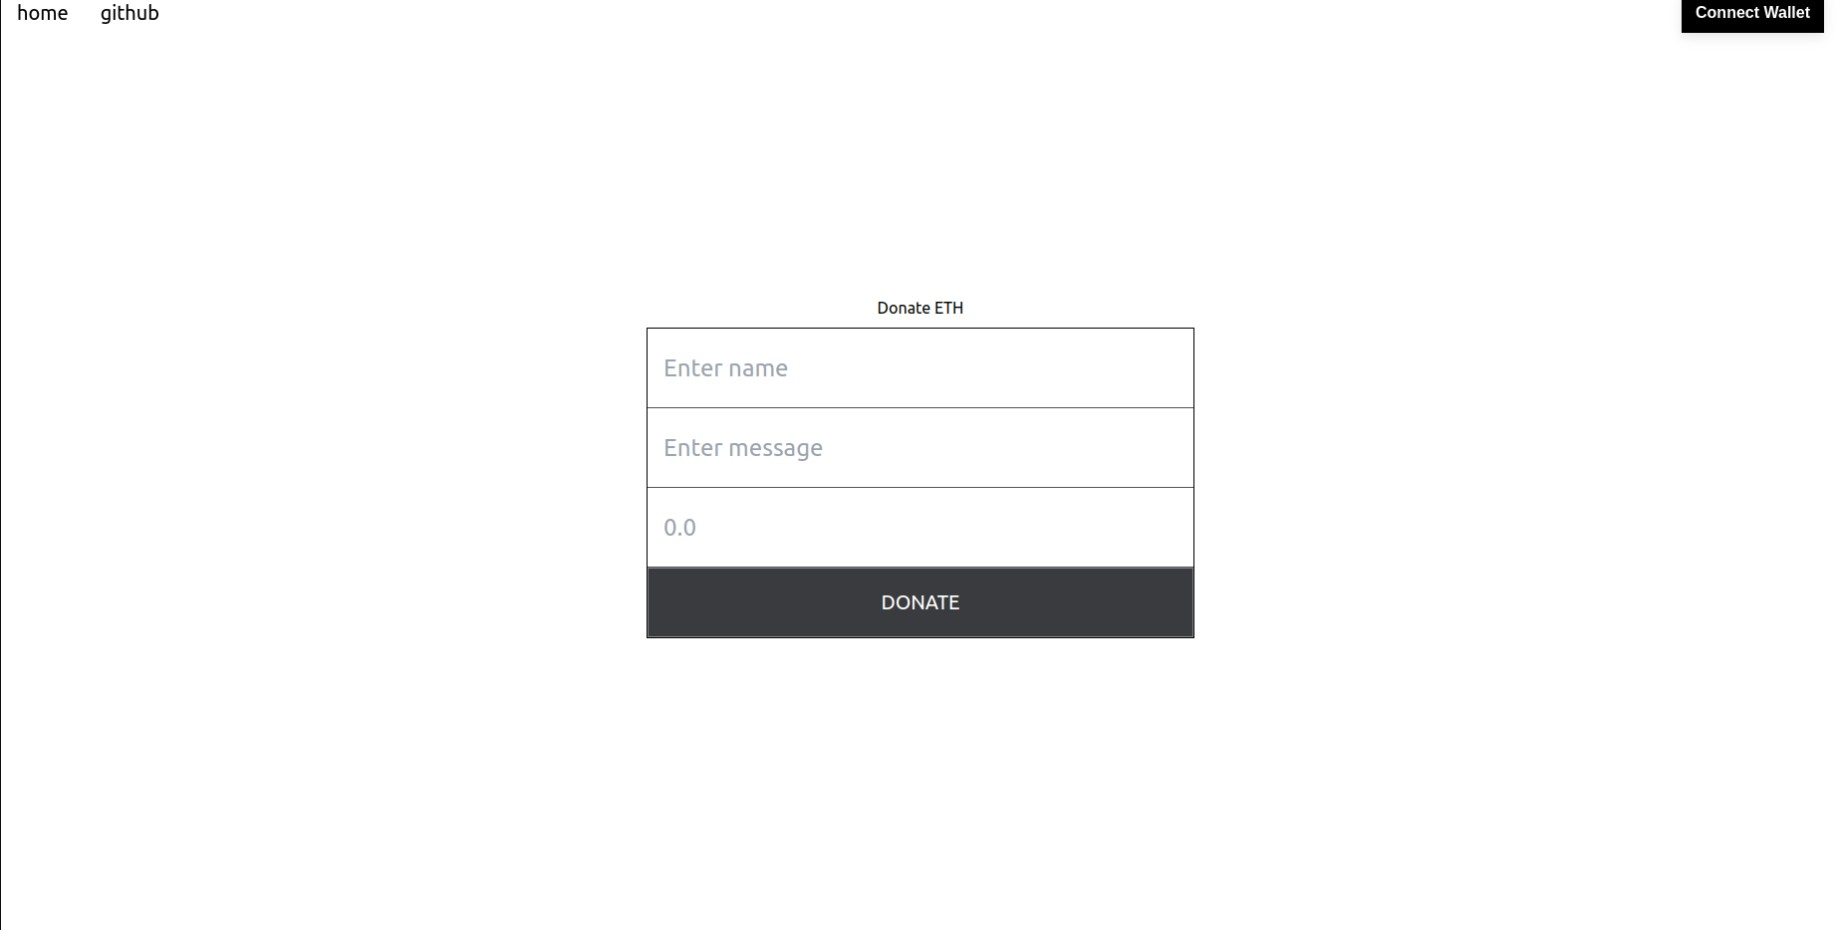
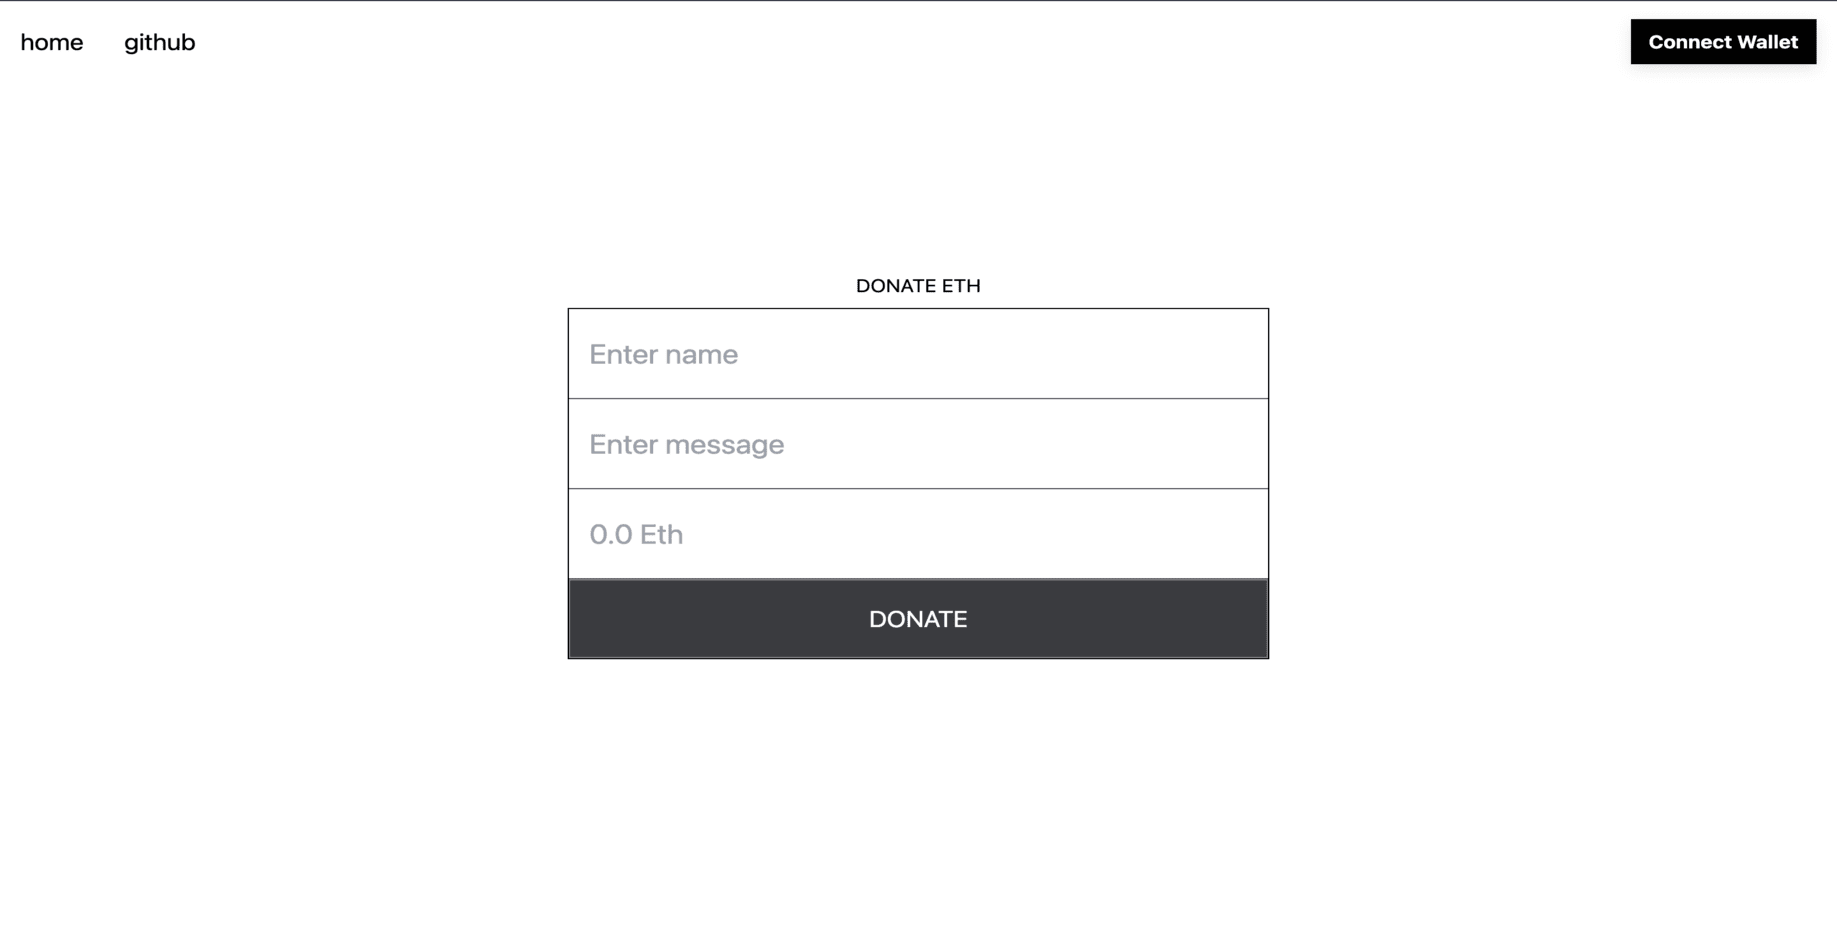
Fix: project pictures

diff --git a/pages/projects.jsx b/pages/projects.jsx
@@ -45,7 +45,7 @@ const Projects = () => {
                 />
                 <ProjectsItems
                     title="ETH DONATION"
-                    backgroundImg={sibylImage}
+                    backgroundImg={donateImage}
                     stack="nextjs / solidity / wagmi.sh"
                     projectUrl="/"
                     description="Simple nextjs app powered by smart contract. Makes it easier for anyone to deploy and start receiving funds."
